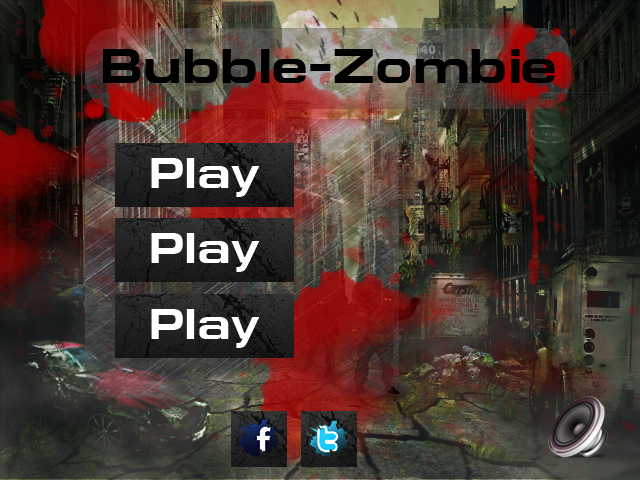
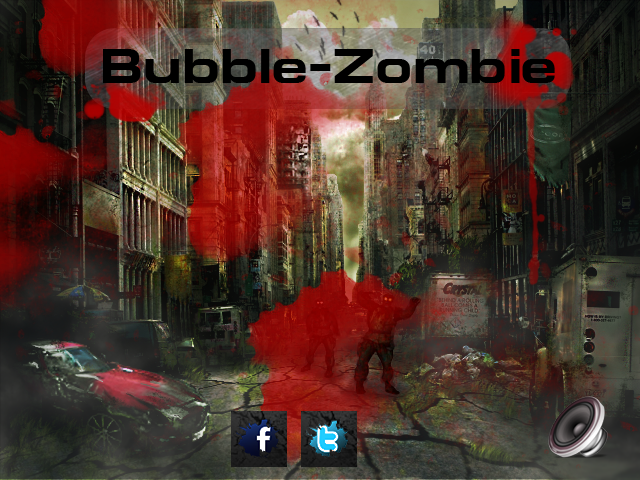
work in progress

Changed region(s): [[0.125, 0.25, 0.625, 0.8438], [0.5625, 0.6875, 0.625, 0.8125]]

diff --git a/core/src/com/bubblezombie/game/Screen/MainMenuScreen.java b/core/src/com/bubblezombie/game/Screen/MainMenuScreen.java
@@ -4,16 +4,16 @@ import com.badlogic.gdx.Game;
 import com.badlogic.gdx.Gdx;
 import com.badlogic.gdx.Screen;
 import com.badlogic.gdx.audio.Music;
+import com.badlogic.gdx.graphics.Color;
 import com.badlogic.gdx.graphics.GL20;
 import com.badlogic.gdx.graphics.OrthographicCamera;
 import com.badlogic.gdx.graphics.Texture;
 import com.badlogic.gdx.graphics.g2d.SpriteBatch;
 import com.badlogic.gdx.graphics.g2d.TextureRegion;
-import com.badlogic.gdx.scenes.scene2d.InputEvent;
-import com.badlogic.gdx.scenes.scene2d.InputListener;
+import com.badlogic.gdx.scenes.scene2d.Actor;
 import com.badlogic.gdx.scenes.scene2d.Stage;
 import com.badlogic.gdx.scenes.scene2d.ui.Button;
-import com.badlogic.gdx.scenes.scene2d.utils.ClickListener;
+import com.badlogic.gdx.scenes.scene2d.utils.ChangeListener;
 import com.badlogic.gdx.scenes.scene2d.utils.TextureRegionDrawable;
 import com.badlogic.gdx.utils.Scaling;
 import com.badlogic.gdx.utils.viewport.ScalingViewport;
@@ -27,6 +27,7 @@ public class MainMenuScreen implements Screen {
 
 
     Button muteButton;
+    Button playButton;
 
     Music backgroundMusic;
     Stage stage;
@@ -46,16 +47,26 @@ public class MainMenuScreen implements Screen {
         backgroundMusic.play();
 
         Gdx.app.log("main_menu", "showed");
+
+        playButton = new Button(new TextureRegionDrawable(new TextureRegion(new Texture(Gdx.files.internal("background/play_button.png")))));
+        playButton.setPosition(240.0f, 250.0f);
+        playButton.addListener(new ChangeListener() {
+            public void changed(ChangeEvent event, Actor actor) {
+                Gdx.app.log("play button", "starting game...");
+                game.setScreen(new GameScreen(MainMenuScreen.this));
+            }
+        });
         muteButton = new Button(new TextureRegionDrawable(new TextureRegion(new Texture(Gdx.files.internal("background/mute.png")))));
         muteButton.setPosition(545.0f, 10.0f);
-        muteButton.addListener(new InputListener() {
-            public boolean touchDown(InputEvent event, float x, float y, int pointer, int button) {
+        muteButton.addListener(new ChangeListener() {
+            public void changed(ChangeEvent event, Actor actor) {
                 if (backgroundMusic.isPlaying()) {
                     backgroundMusic.pause();
+                    Gdx.app.log("mute button", "muted");
                 } else {
                     backgroundMusic.play();
+                    Gdx.app.log("mute button", "unmuted");
                 }
-                return true;
             }
         });
 
@@ -67,15 +78,14 @@ public class MainMenuScreen implements Screen {
         stage.clear();
         Gdx.input.setInputProcessor(stage);
         stage.addActor(muteButton);
+        stage.addActor(playButton);
         background = new TextureRegion(new Texture(Gdx.files.internal("background/ZombiFon1_2.png")), 0, 0, 640, 480);
 
-//        Gdx.gl.glClearColor(1, 0, 0, 1);
-//        Gdx.gl.glClear(GL20.GL_COLOR_BUFFER_BIT);
     }
 
     @Override
     public void render(float delta) {
-        Gdx.gl.glClearColor(1, 1, 0, 1);
+        Gdx.gl.glClearColor(0, 0, 0, 1);
         Gdx.gl.glClear(GL20.GL_COLOR_BUFFER_BIT);
         stage.act();
 
@@ -85,9 +95,11 @@ public class MainMenuScreen implements Screen {
 
         batch.begin();
         batch.draw(background, 0, 0);
+
         if (!backgroundMusic.isPlaying()) {
             muteButton.draw(batch, 1);
         }
+        playButton.draw(batch, 0.7f);
         batch.end();
     }
 

diff --git a/core/src/com/bubblezombie/game/Screen/GameScreen.java b/core/src/com/bubblezombie/game/Screen/GameScreen.java
@@ -1,0 +1,82 @@
+package com.bubblezombie.game.Screen;
+
+import com.badlogic.gdx.Gdx;
+import com.badlogic.gdx.Screen;
+import com.badlogic.gdx.graphics.Camera;
+import com.badlogic.gdx.graphics.GL20;
+import com.badlogic.gdx.graphics.OrthographicCamera;
+import com.badlogic.gdx.graphics.Pixmap;
+import com.badlogic.gdx.graphics.Texture;
+import com.badlogic.gdx.graphics.g2d.SpriteBatch;
+import com.badlogic.gdx.scenes.scene2d.Stage;
+import com.badlogic.gdx.utils.Scaling;
+import com.badlogic.gdx.utils.viewport.ScalingViewport;
+import com.bubblezombie.game.BubbleZombieGame;
+
+/**
+ * Created by artem on 01.12.15.
+ */
+public class GameScreen implements Screen {
+    Screen menu;
+
+    Stage stage;
+    SpriteBatch batch;
+    OrthographicCamera camera;
+    Texture text;
+    GameScreen(Screen s) {
+        this.menu = s;
+    }
+
+    @Override
+    public void show() {
+        batch = new SpriteBatch();
+        camera = new OrthographicCamera();
+        camera.setToOrtho(false, BubbleZombieGame.width, BubbleZombieGame.height);
+        stage = new Stage(new ScalingViewport(Scaling.stretch, BubbleZombieGame.width, BubbleZombieGame.height));
+        stage.clear();
+        Gdx.input.setInputProcessor(stage);
+        text = new Texture(Gdx.files.internal("textures/header.png"));
+    }
+
+    @Override
+    public void render(float delta) {
+
+        Gdx.gl.glClearColor(0, 0, 0, 1);
+        Gdx.gl.glClear(GL20.GL_COLOR_BUFFER_BIT);
+        stage.act();
+
+        camera.update();
+
+        batch.setProjectionMatrix(camera.combined);
+
+        batch.begin();
+        batch.draw(text,70, 200);
+        batch.end();
+
+    }
+
+    @Override
+    public void resize(int width, int height) {
+
+    }
+
+    @Override
+    public void pause() {
+
+    }
+
+    @Override
+    public void resume() {
+
+    }
+
+    @Override
+    public void hide() {
+
+    }
+
+    @Override
+    public void dispose() {
+
+    }
+}
